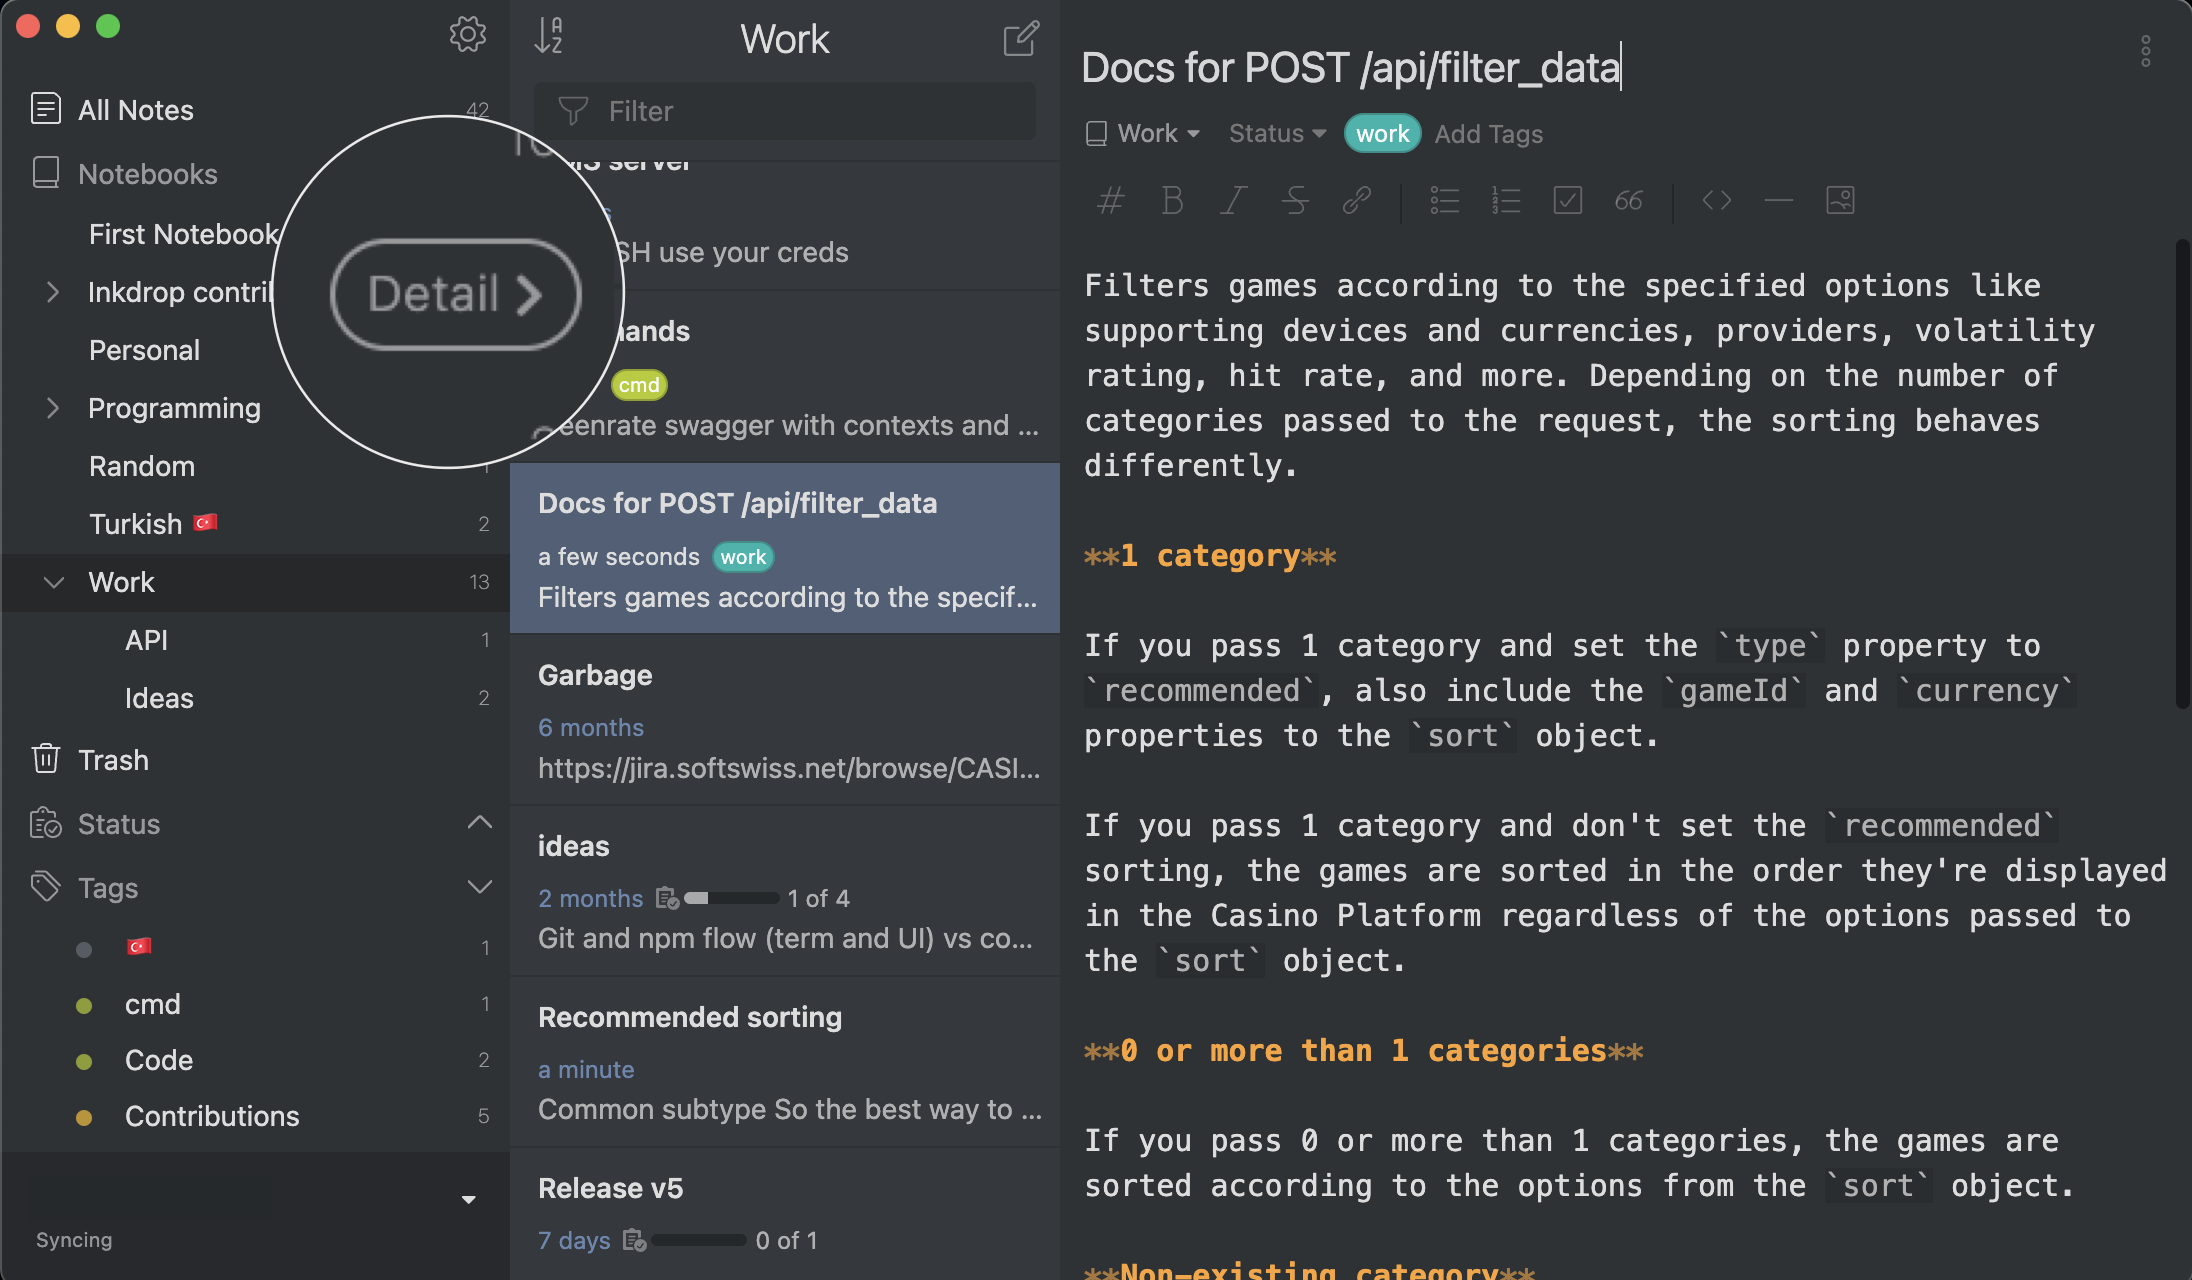
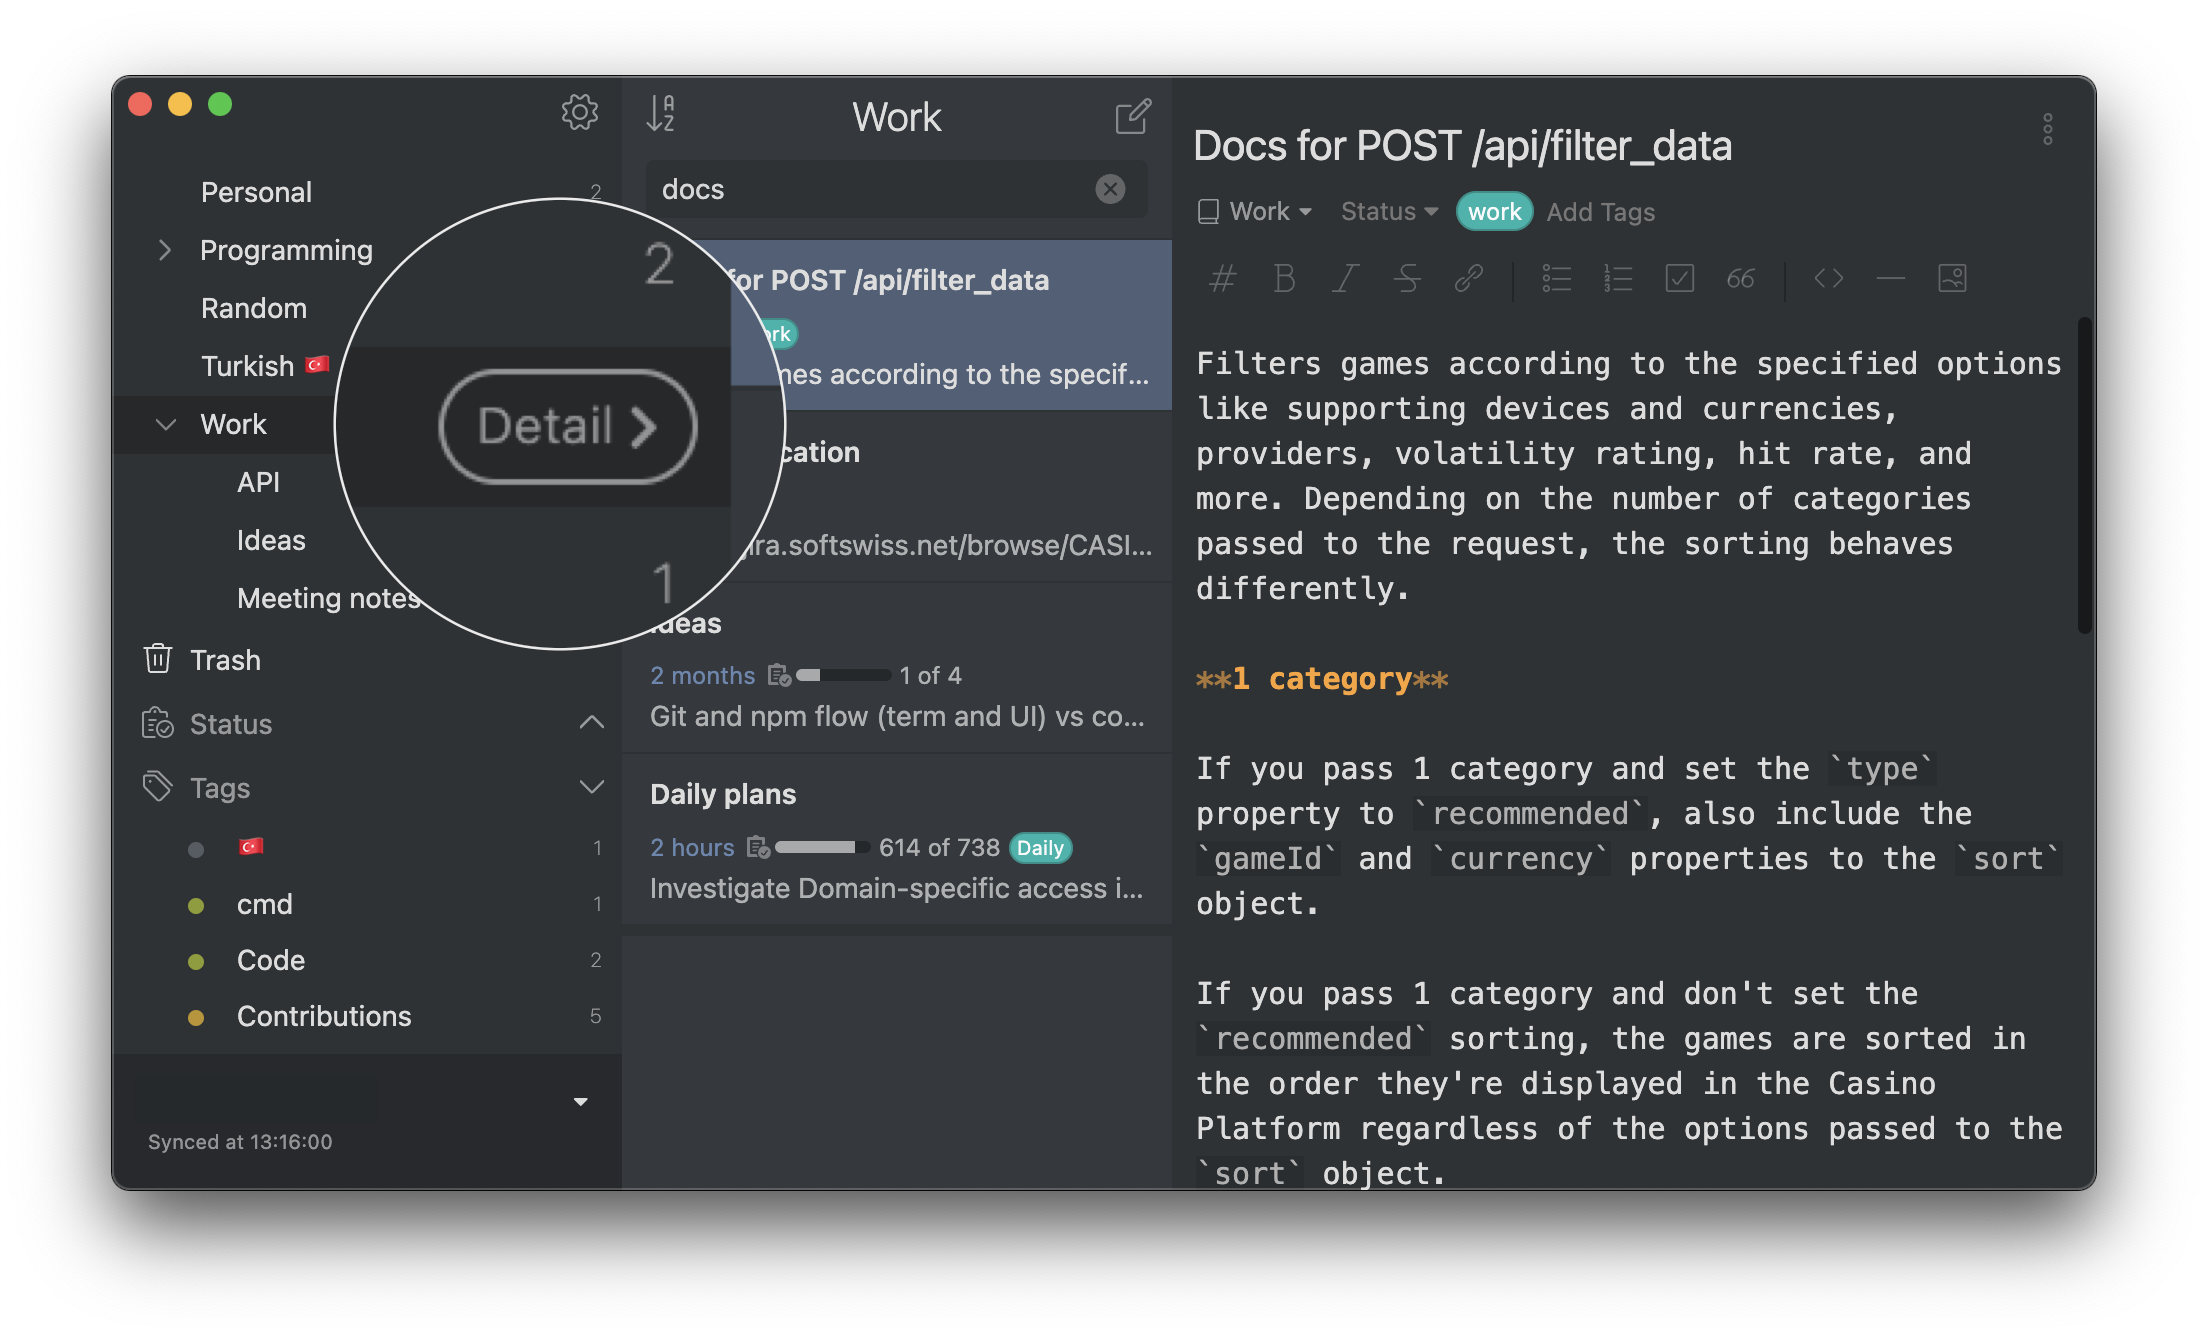
fix: use screenshot with shadow

diff --git a/src/pages/manual/basic-usage.md b/src/pages/manual/basic-usage.md
@@ -96,7 +96,7 @@ Watch a video showing how to navigate via the viewed notes using a touchpad on m
 
 #### Hack Windows gestures
 
-By default, navigating through notes using touchpad on a Windows machine isn't supported. Here's a neat workaround for Windows 11:
+By default, navigating through notes using touchpad on Windows machines isn't supported. Check out a workaround for Windows 11:
 
 1. Go to **Bluetooth & devices** > **Touchpad** > **Advanced gestures**.
 2. Expand the **Configure three-finger gestures**.
